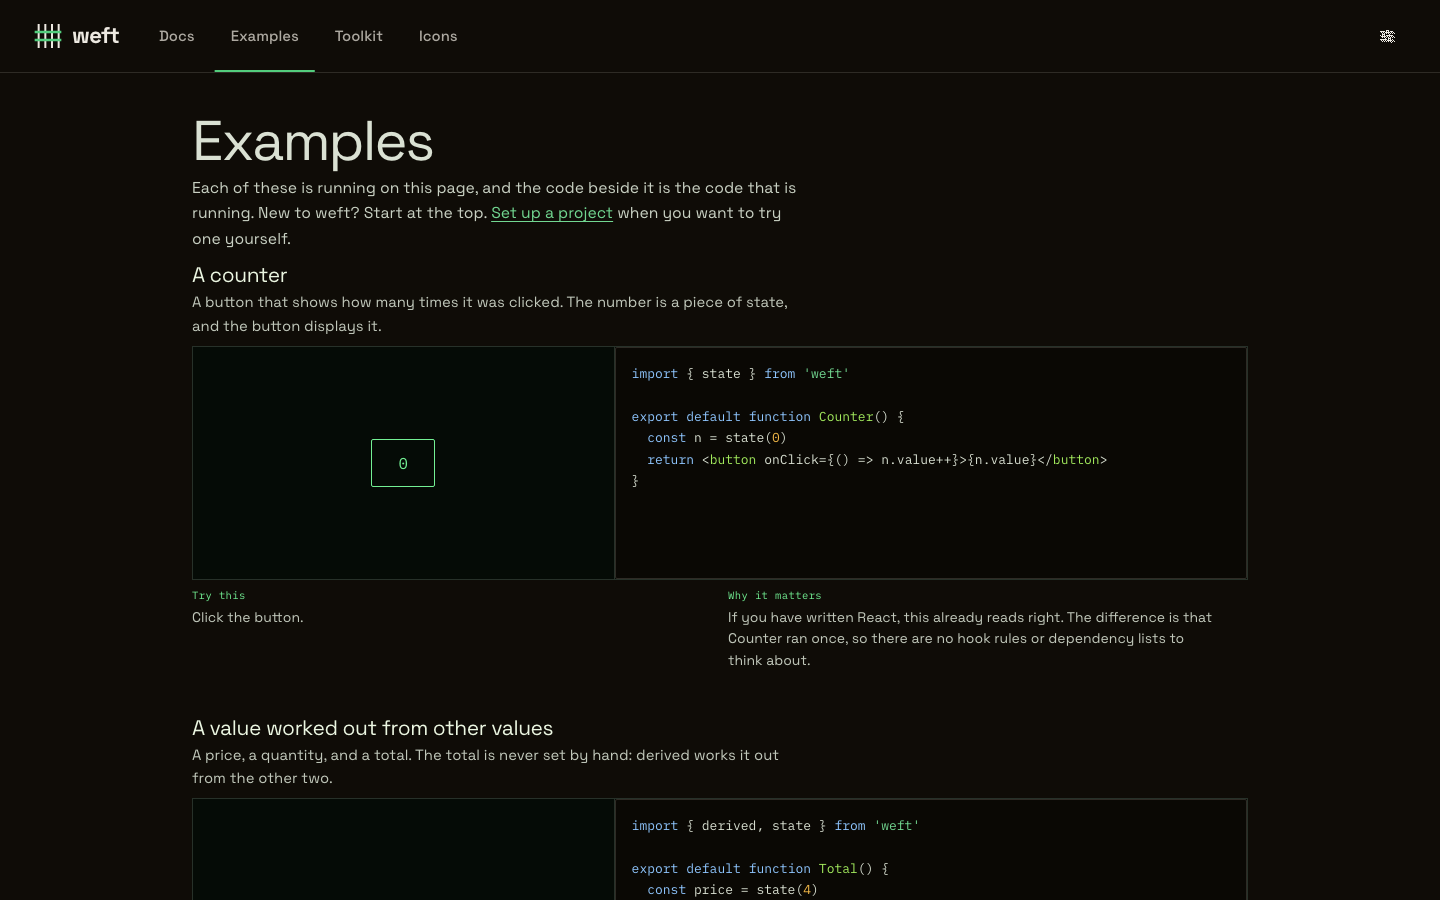
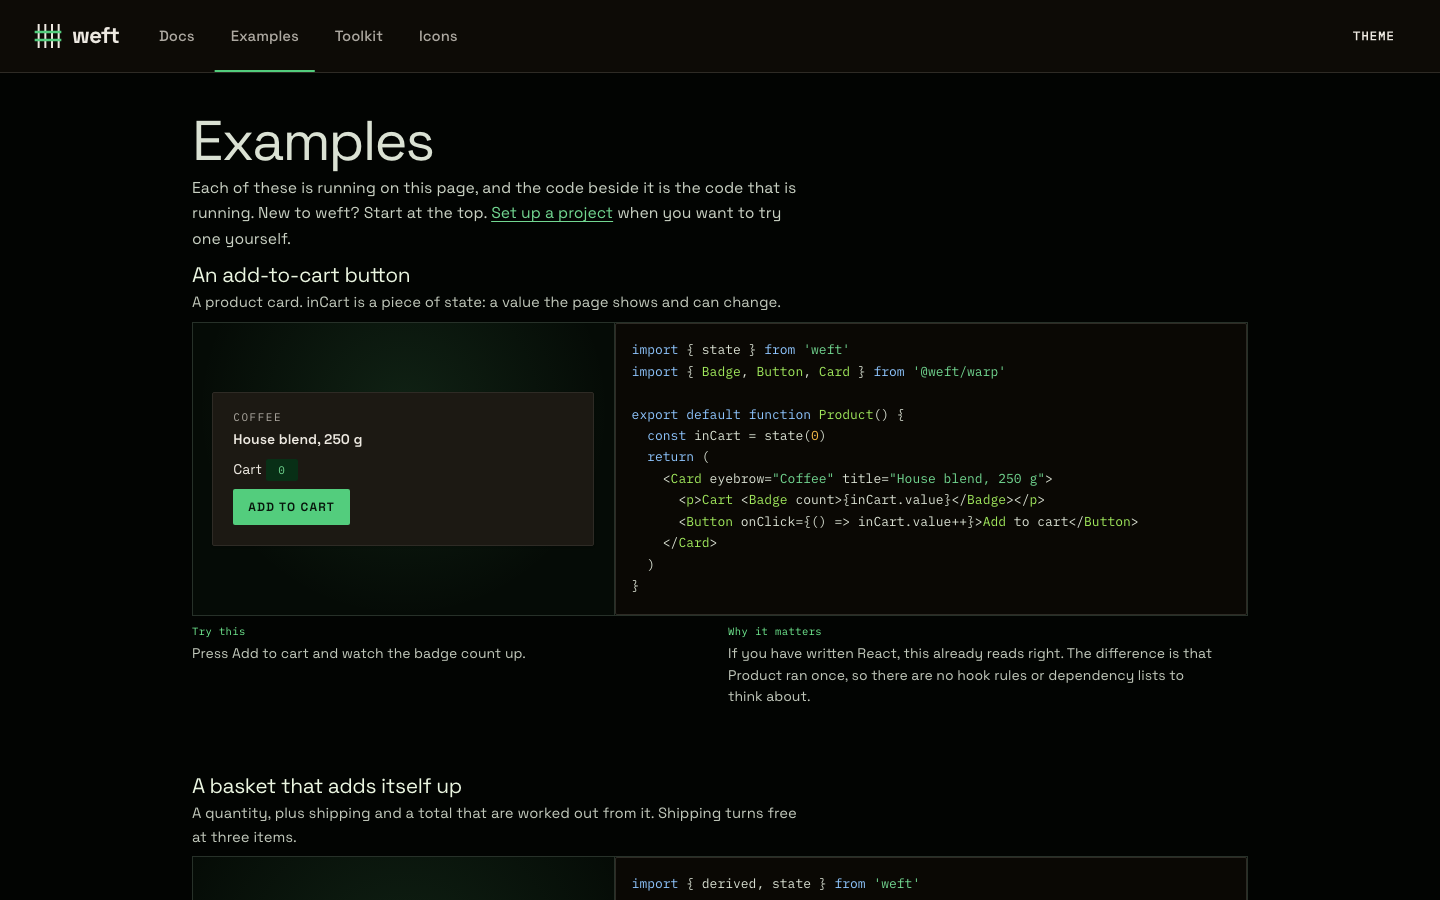
Build the examples as small real things on warp
Cart, basket, bill split, tasks, save, search, market, shared list and a
compiler catch, each a warp card. Finer mark, more air in the hero, a
text Theme control, and scroll margin under the sticky bar.

diff --git a/site/src/demos/index.ts b/site/src/demos/index.ts
@@ -5,50 +5,71 @@ import lists from './lists'
 import later from './async'
 import prices from './prices'
 import kit from './ui-kit'
+import search from './search'
+import shared from './shared'
+import habit from './habit'
 
 export type Demo = { run: () => any; title: string; look: string; tryIt: string; why: string; page?: string }
 
 /** Every live example, with the words that say what it is. The landing, the examples page and the docs read this. */
 export const demos: Record<string, Demo> = {
   'getting-started': {
-    run: started, page: 'getting-started', title: 'A counter',
-    look: 'A button that shows how many times it was clicked. The number is a piece of state, and the button displays it.',
-    tryIt: 'Click the button.',
-    why: 'If you have written React, this already reads right. The difference is that Counter ran once, so there are no hook rules or dependency lists to think about.',
+    run: started, page: 'getting-started', title: 'An add-to-cart button',
+    look: 'A product card. inCart is a piece of state: a value the page shows and can change.',
+    tryIt: 'Press Add to cart and watch the badge count up.',
+    why: 'If you have written React, this already reads right. The difference is that Product ran once, so there are no hook rules or dependency lists to think about.',
   },
   rules: {
-    run: rules, page: 'rules', title: 'A value worked out from other values',
-    look: 'A price, a quantity, and a total. The total is never set by hand: derived works it out from the other two.',
-    tryIt: 'Click price or qty and watch the total follow.',
+    run: rules, page: 'rules', title: 'A basket that adds itself up',
+    look: 'A quantity, plus shipping and a total that are worked out from it. Shipping turns free at three items.',
+    tryIt: 'Press Add one three times and watch shipping and the total change together.',
     why: 'You say what the total is once, and it can never go stale. Most bugs in forms and carts come from keeping such values in sync by hand.',
   },
   props: {
     run: props, page: 'props', title: 'Passing data to a child',
-    look: 'Cart owns the amount. Price only displays what it is given.',
-    tryIt: 'Click +1. Price updates, even though neither component ran again.',
+    look: 'Tip owns the bill. Price is a separate component that only displays the number it is given.',
+    tryIt: 'Press Add a $10 dish. Price updates, though neither component ran again.',
     why: 'Passing a value to a child looks the same as in React, and the child stays up to date without re-rendering.',
   },
   lists: {
     run: lists, page: 'lists', title: 'A list that keeps its rows',
-    look: 'Four rows, each with a key. Rotate moves the first row to the end.',
-    tryIt: 'Click Rotate.',
-    why: 'Rows are moved, not rebuilt. Anything inside a row, such as typed text or a playing video, survives a reorder.',
+    look: 'A to-do list where each row has a key, so weft knows which row is which.',
+    tryIt: 'Tick Grind, then press Do the first one later a few times. The tick stays with its row.',
+    why: 'Rows are moved, not rebuilt. Anything inside a row, such as a tick, typed text or a playing video, survives a reorder.',
   },
   async: {
-    run: later, page: 'async', title: 'Waiting for something',
-    look: 'A button that pretends to load data for 600 ms, and disables itself while it waits.',
-    tryIt: 'Click it, and click again while it says Loading.',
+    run: later, page: 'async', title: 'Saving to a server',
+    look: 'A save button that waits 800 ms, standing in for a real request, and disables itself meanwhile.',
+    tryIt: 'Press Save changes, and try pressing again while it spins.',
     why: 'Async code is plain async and await. State you change after an await updates the page like any other.',
   },
+  search: {
+    run: search, title: 'A search filter',
+    look: 'A list of cities and a box that narrows it. The matches are worked out from what you type.',
+    tryIt: 'Type os, then clear the box.',
+    why: 'Filtering is one line of ordinary JavaScript. The list updates on every key without any wiring from you.',
+  },
   prices: {
-    run: prices, title: '1,000 live prices',
-    look: 'A table of 1,000 numbers. When running, one random price changes about 60 times a second.',
-    tryIt: 'Press Start prices. Then watch how little else on this page is affected.',
+    run: prices, title: 'A live market table',
+    look: 'A table of 1,000 prices. When live, one random price changes about 60 times a second.',
+    tryIt: 'Press Go live, then scroll the table or use the rest of this page.',
     why: 'A live dashboard usually forces a framework to compare the whole table on each tick. Here each number has its own update, so one change costs one text write.',
+  },
+  shared: {
+    run: shared, title: 'Two views of one list',
+    look: 'Ana and Ben see the same list. Here both panes are in your browser and share one piece of state, so nothing crosses a network.',
+    tryIt: 'Add a task in either pane, and tick a box.',
+    why: 'New tasks appear in both panes with no sync code. With @weft/start the list comes from a server query, and `.live()` keeps other visitors in step the same way.',
+  },
+  habit: {
+    run: habit, title: 'A React habit, caught by the compiler',
+    look: 'A real error from the weft compiler for state(props.value), which copies a prop once. That is fine in some frameworks and a silent bug here.',
+    tryIt: 'Press the button to see the message the compiler gives.',
+    why: 'Mistakes you bring from other frameworks stop the build with a reason and a fix, instead of shipping and going stale later. Your agent reads the same message.',
   },
   'ui-kit': {
     run: kit, title: 'A form from warp',
-    look: 'An email field, a switch and a button, all from warp, the UI kit that ships with weft.',
+    look: 'A billing form: email field, switch and button, all from warp, the UI kit that ships with weft.',
     tryIt: 'Hover the field and the button, then press Tab to move through them.',
     why: 'Forms, dialogs, tables and menus are in the box, keyboard support included, so you do not choose and wire up a component library.',
   },

diff --git a/site/src/styles/example.css b/site/src/styles/example.css
@@ -2,15 +2,14 @@
 [data-site="example"] > p { max-inline-size: 65ch; font-size: 1.0625rem; line-height: 1.6; color: oklch(0.82 0.02 130); }
 [data-site="example"] h3 { font-family: var(--warp-font-sans); font-size: 1.5rem; letter-spacing: -0.02em; color: oklch(0.96 0.03 130); }
 [data-site="example"] [data-part="pair"] { display: grid; grid-template-columns: minmax(0, 2fr) minmax(0, 3fr); border: 1px solid oklch(0.3 0.02 150); background: oklch(0.14 0.015 150); }
-[data-site="example"] [data-part="run"] { display: flex; flex-wrap: wrap; align-items: center; justify-content: center; align-content: center; gap: 10px; min-inline-size: 0; min-block-size: 200px; padding: var(--warp-space-group); font-family: var(--warp-font-mono); border-inline-end: 1px solid oklch(0.3 0.02 150); }
-[data-site="example"] [data-part="run"] form { display: grid; gap: var(--warp-space-related); inline-size: 100%; font-family: var(--warp-font-sans); }
-[data-site="example"] [data-part="run"] > button { min-block-size: 48px; min-inline-size: 64px; padding-inline: 18px; font-size: 1.125rem; border: 1px solid oklch(0.86 0.17 150); border-radius: 2px; background: none; color: oklch(0.86 0.17 150); font-family: inherit; cursor: pointer; transition: background-color 120ms var(--warp-ease-out), scale 120ms var(--warp-ease-out); }
-[data-site="example"] [data-part="run"] > button:hover { background: oklch(0.86 0.17 150 / 0.14); }
-[data-site="example"] [data-part="run"] > button:active { scale: 0.97; }
-[data-site="example"] [data-part="run"] > button:disabled { opacity: 0.6; cursor: progress; }
-[data-site="example"] output { flex: 1 0 100%; text-align: center; font-size: 3rem; line-height: 1; color: oklch(0.86 0.17 150); }
-[data-site="example"] ul { flex: 1 0 100%; display: grid; gap: 2px; margin: 0; padding: 0; list-style: none; text-align: center; }
-[data-site="example"] [data-part="prices"] { flex: 1 0 100%; display: grid; grid-template-columns: repeat(12, 1fr); block-size: 160px; margin: 0; padding: 0; overflow: auto; list-style: none; font-size: 0.6875rem; color: oklch(0.82 0.02 130); contain: strict; }
+[data-site="example"] [data-part="run"] { display: flex; flex-wrap: wrap; align-items: center; justify-content: center; align-content: center; gap: 10px; min-inline-size: 0; min-block-size: 260px; background: radial-gradient(circle at 50% 30%, oklch(0.86 0.17 150 / 0.1), transparent 70%); padding: var(--warp-space-group); font-family: var(--warp-font-mono); border-inline-end: 1px solid oklch(0.3 0.02 150); }
+[data-site="example"] [data-part="run"] > * { inline-size: min(100%, 340px); }
+[data-site="example"] [data-part="run"] > [data-part="panes"] { inline-size: 100%; }
+[data-site="example"] [data-part="run"] form, [data-site="example"] [data-scope="surface"] > :not([data-part="eyebrow"]) { font-family: var(--warp-font-sans); }
+[data-site="example"] [data-scope="surface"] { display: grid; gap: var(--warp-space-related); justify-items: start; }
+[data-site="example"] [data-scope="surface"] form { display: grid; gap: var(--warp-space-related); inline-size: 100%; }
+[data-site="example"] [data-scope="surface"] p { margin: 0; }
+[data-site="example"] [data-part="prices"] { inline-size: 100%; display: grid; grid-template-columns: repeat(8, 1fr); block-size: 120px; margin: 0; padding: 0; overflow: auto; list-style: none; font-size: 0.6875rem; color: oklch(0.82 0.02 130); contain: strict; }
 [data-site="example"] pre { margin: 0; padding: var(--warp-space-group); overflow-x: auto; font-size: 0.8125rem; line-height: 1.6; }
 [data-site="example"] dl, [data-site="fix"] dl { display: grid; grid-template-columns: repeat(auto-fit, minmax(min(260px, 100%), 1fr)); gap: var(--warp-space-group); margin: 0; }
 [data-site="example"] dt, [data-site="fix"] dl dt { font: 400 0.75rem/1.4 var(--warp-font-mono); letter-spacing: 0.04em; color: oklch(0.86 0.17 150); }
@@ -19,3 +18,7 @@
   [data-site="example"] [data-part="pair"] { grid-template-columns: minmax(0, 1fr); }
   [data-site="example"] [data-part="run"] { border-inline-end: 0; border-block-end: 1px solid oklch(0.3 0.02 150); }
 }
+[data-site="example"] [data-part="tags"] { display: flex; flex-wrap: wrap; gap: 6px; }
+[data-site="example"] [data-part="tags"] > * { inline-size: auto; }
+[data-site="example"] pre { white-space: pre; }
+[data-site="example"] [data-part="panes"] { display: grid; grid-template-columns: 1fr 1fr; gap: 10px; inline-size: 100%; }

diff --git a/site/src/styles/site.css b/site/src/styles/site.css
@@ -40,7 +40,7 @@
   [data-site="hero"]::after { content: ""; position: absolute; inset: 0; z-index: -1; pointer-events: none; background: linear-gradient(90deg, oklch(0.1 0.012 150) 0 38%, oklch(0.1 0.012 150 / 0.72) 58%, oklch(0.1 0.012 150 / 0.1)), linear-gradient(0deg, oklch(0.1 0.012 150), transparent 22%); }
   [data-site="loom"] { opacity: 0; transition: opacity var(--warp-duration-slow) var(--warp-ease-out); }
   [data-site="loom"][data-live] { opacity: 0.85; }
-  [data-site="hero"] [data-part="say"] { display: grid; gap: var(--warp-space-group); max-inline-size: 660px; }
+  [data-site="hero"] [data-part="say"] { display: grid; gap: clamp(1.5rem, 3vh, 2.25rem); max-inline-size: 660px; }
   [data-site="hero"] h1 { font-family: var(--warp-font-sans); font-weight: 700; font-size: clamp(2.75rem, 1.4rem + 4.4vw, 5rem); line-height: 1.02; letter-spacing: -0.04em; color: oklch(0.97 0.03 130); }
   [data-site="hero"] [data-part="say"] > p:not([data-part]) { font-size: clamp(1.125rem, 1rem + 0.5vw, 1.375rem); line-height: 1.5; color: oklch(0.87 0.02 130); }
   [data-part="next"] { display: flex; flex-wrap: wrap; align-items: center; gap: var(--warp-space-group); }
@@ -52,6 +52,7 @@
   [data-part="install"] code { justify-self: start; max-inline-size: 100%; overflow-x: auto; padding: 8px 12px; border: 1px solid oklch(0.3 0.02 150); background: oklch(0.1 0.012 150 / 0.8); font-family: var(--warp-font-mono); font-size: 0.875rem; color: oklch(0.96 0.03 130); }
 
   [data-site="story"] { display: grid; grid-template-columns: minmax(0, 1fr); gap: clamp(3.5rem, 7vw, 6.5rem); background: oklch(0.1 0.012 150); padding: clamp(3rem, 6vw, 5rem) clamp(1.25rem, 5vw, 5rem) clamp(4rem, 8vw, 7rem); }
+  [data-site="story"] h2, [data-site="story"] section { scroll-margin-block-start: 96px; }
   [data-site="story"] > section, [data-part="reading"] { box-sizing: border-box; inline-size: 100%; max-inline-size: 1120px; margin-inline: auto; }
   [data-site="story"] h2 { font-family: var(--warp-font-sans); font-weight: 700; font-size: clamp(2rem, 1.3rem + 2.4vw, 3.25rem); line-height: 1.08; letter-spacing: -0.03em; color: oklch(0.97 0.03 130); }
   [data-part="intro"] { max-inline-size: 65ch; margin-block: var(--warp-space-group); font-size: 1.125rem; line-height: 1.6; color: oklch(0.85 0.02 130); }

diff --git a/site/src/demos/async.tsx b/site/src/demos/async.tsx
@@ -1,15 +1,23 @@
 import { state } from 'weft'
+import { Badge, Button, Card, Spinner } from '@weft/warp'
 
-const wait = (ms: number) => new Promise(done => setTimeout(done, ms))
+const save = () => new Promise(done => setTimeout(done, 800))
 
-export default function Later() {
-  const busy = state(false)
-  const hits = state(0)
+export default function Profile() {
+  const saving = state(false)
+  const saves = state(0)
   const go = async () => {
-    busy.value = true
-    await wait(600)
-    hits.value++
-    busy.value = false
+    saving.value = true
+    await save()
+    saves.value++
+    saving.value = false
   }
-  return <button disabled={busy.value} onClick={go}>{busy.value ? 'Loading' : `Loaded ${hits.value}`}</button>
+  return (
+    <Card title="Profile">
+      <Badge tone="success">Saved {saves.value} times</Badge>
+      <Button disabled={saving.value} onClick={go}>
+        {saving.value ? <Spinner /> : 'Save changes'}
+      </Button>
+    </Card>
+  )
 }

diff --git a/site/src/demos/rules.tsx b/site/src/demos/rules.tsx
@@ -1,14 +1,17 @@
 import { derived, state } from 'weft'
+import { Button, Card } from '@weft/warp'
 
-export default function Total() {
-  const price = state(4)
-  const qty = state(2)
-  const total = derived(() => price.value * qty.value)
+export default function Basket() {
+  const price = 12
+  const qty = state(1)
+  const shipping = derived(() => (qty.value >= 3 ? 0 : 4))
+  const total = derived(() => price * qty.value + shipping.value)
   return (
-    <>
-      <button onClick={() => price.value++}>price {price.value}</button>
-      <button onClick={() => qty.value++}>qty {qty.value}</button>
-      <output>{total.value}</output>
-    </>
+    <Card title="Your basket">
+      <p>{qty.value} × $12 · shipping ${shipping.value}</p>
+      <p><strong>Total ${total.value}</strong></p>
+      <Button onClick={() => qty.value++}>Add one</Button>
+      <Button emphasis="ghost" tone="neutral" onClick={() => (qty.value = 1)}>Reset</Button>
+    </Card>
   )
 }

diff --git a/site/src/demos/prices.tsx b/site/src/demos/prices.tsx
@@ -1,19 +1,20 @@
 import { onMount, state } from 'weft'
+import { Button, Card } from '@weft/warp'
 
 const rows = Array.from({ length: 1000 }, (_, i) => ({ id: i, price: state(100) }))
 
-export default function Prices() {
-  const running = state(false)
+export default function Market() {
+  const live = state(false)
   onMount(() => {
     const beat = setInterval(() => {
-      if (running.value) rows[(Math.random() * 1000) | 0].price.value++
+      if (live.value) rows[(Math.random() * 1000) | 0].price.value++
     }, 16)
     return () => clearInterval(beat)
   })
   return (
-    <>
-      <button onClick={() => (running.value = !running.value)}>{running.value ? 'Stop' : 'Start prices'}</button>
+    <Card title="Market, 1,000 symbols">
+      <Button onClick={() => (live.value = !live.value)}>{live.value ? 'Pause' : 'Go live'}</Button>
       <ol data-part="prices">{rows.map(r => <li key={r.id}>{r.price.value}</li>)}</ol>
-    </>
+    </Card>
   )
 }

diff --git a/site/src/components/Appearance.tsx b/site/src/components/Appearance.tsx
@@ -16,7 +16,7 @@ export function Appearance() {
     motion.value = getDial('motion')
   })
   return (
-    <Popover align="end" label="" title="Appearance" trigger={{ emphasis: 'ghost', tone: 'neutral', size: 'sm', icon: 'sliders', 'aria-label': 'Appearance' }}>
+    <Popover align="end" label="Theme" title="Appearance" trigger={{ emphasis: 'ghost', tone: 'neutral', size: 'sm' }}>
       <div data-site="dials">
         <Segmented size="sm" label="Theme" value={theme.value} options={[{ value: 'auto', label: 'Auto' }, { value: 'light', label: 'Light' }, { value: 'dark', label: 'Dark' }]} onChange={v => { theme.value = v; setDial('theme', v, { persist: true }) }} />
         <Segmented size="sm" label="Expression" value={expression.value} options={[{ value: 'quiet', label: 'Quiet' }, { value: 'balanced', label: 'Balanced' }, { value: 'vivid', label: 'Vivid' }]} onChange={v => { expression.value = v; setDial('expression', v, { persist: true }) }} />

diff --git a/site/src/demos/ui-kit.tsx b/site/src/demos/ui-kit.tsx
@@ -1,13 +1,19 @@
 import { state } from 'weft'
-import { Button, Input, Switch } from '@weft/warp'
+import { Button, Card, Input, Switch } from '@weft/warp'
 
-export default function Signup() {
-  const sent = state(false)
+export default function Billing() {
+  const saved = state(false)
+  const submit = (e: Event) => {
+    e.preventDefault()
+    saved.value = true
+  }
   return (
-    <form onSubmit={e => { e.preventDefault(); sent.value = true }}>
-      <Input label="Billing email" type="email" />
-      <Switch defaultChecked>Send a receipt</Switch>
-      <Button type="submit">{sent.value ? 'Saved' : 'Save'}</Button>
-    </form>
+    <Card title="Billing">
+      <form onSubmit={submit}>
+        <Input label="Billing email" type="email" />
+        <Switch defaultChecked>Send a receipt</Switch>
+        <Button type="submit">{saved.value ? 'Saved' : 'Save'}</Button>
+      </form>
+    </Card>
   )
 }

diff --git a/site/src/demos/lists.tsx b/site/src/demos/lists.tsx
@@ -1,14 +1,15 @@
 import { state } from 'weft'
+import { Button, Card, Checkbox } from '@weft/warp'
 
-const start = ['warp', 'weft', 'loom', 'shed'].map(id => ({ id }))
+const start = ['Buy beans', 'Grind', 'Brew', 'Drink'].map(id => ({ id }))
 
-export default function Rows() {
-  const rows = state(start)
-  const turn = () => (rows.value = [...rows.value.slice(1), rows.value[0]])
+export default function Tasks() {
+  const tasks = state(start)
+  const later = () => (tasks.value = [...tasks.value.slice(1), tasks.value[0]])
   return (
-    <>
-      <button onClick={turn}>Rotate</button>
-      <ul>{rows.value.map(r => <li key={r.id}>{r.id}</li>)}</ul>
-    </>
+    <Card title="Today">
+      {tasks.value.map(t => <Checkbox key={t.id}>{t.id}</Checkbox>)}
+      <Button emphasis="ghost" tone="neutral" onClick={later}>Do the first one later</Button>
+    </Card>
   )
 }

diff --git a/site/src/demos/shared.tsx b/site/src/demos/shared.tsx
@@ -1,0 +1,19 @@
+import { state } from 'weft'
+import { Button, Card, Checkbox } from '@weft/warp'
+
+// One list, two views of it. In a real app the list comes from a server `query`.
+const todos = state([{ id: 1, text: 'Book flights' }, { id: 2, text: 'Pack' }])
+const add = (who: string) => (todos.value = [...todos.value, { id: Date.now(), text: `From ${who}` }])
+
+export default function Shared() {
+  return (
+    <div data-part="panes">
+      {['Ana', 'Ben'].map(who => (
+        <Card key={who} title={who}>
+          {todos.value.map(t => <Checkbox key={t.id}>{t.text}</Checkbox>)}
+          <Button emphasis="ghost" tone="neutral" onClick={() => add(who)}>Add a task</Button>
+        </Card>
+      ))}
+    </div>
+  )
+}

diff --git a/site/src/demos/search.tsx b/site/src/demos/search.tsx
@@ -1,0 +1,23 @@
+import { derived, state } from 'weft'
+import { Card, Input, Tag } from '@weft/warp'
+
+const CITIES = ['Lisbon', 'Oslo', 'Osaka', 'Lima', 'Lagos', 'Porto']
+
+export default function Trips() {
+  const query = state('')
+  const found = derived(() => {
+    const q = query.value.toLowerCase()
+    return CITIES.filter(c => c.toLowerCase().includes(q))
+  })
+  return (
+    <Card title="Where to?">
+      <Input
+        label="Search cities"
+        value={query.value}
+        onInput={(e: any) => (query.value = e.currentTarget.value)}
+      />
+      <p>{found.value.length} of {CITIES.length}</p>
+      <div data-part="tags">{found.value.map(c => <Tag key={c}>{c}</Tag>)}</div>
+    </Card>
+  )
+}

diff --git a/site/src/demos/props.tsx b/site/src/demos/props.tsx
@@ -1,15 +1,16 @@
 import { state } from 'weft'
+import { Button, Card } from '@weft/warp'
 
-function Price(props: { amount: number }) {
-  return <output>{props.amount}</output>
+function Price(props: { dollars: number }) {
+  return <strong>${props.dollars.toFixed(2)}</strong>
 }
 
-export default function Cart() {
-  const amount = state(10)
+export default function Tip() {
+  const bill = state(40)
   return (
-    <>
-      <button onClick={() => amount.value++}>+1</button>
-      <Price amount={amount.value} />
-    </>
+    <Card title="Split the bill">
+      <p>Each of you pays <Price dollars={bill.value / 2} /></p>
+      <Button onClick={() => (bill.value += 10)}>Add a $10 dish</Button>
+    </Card>
   )
 }
